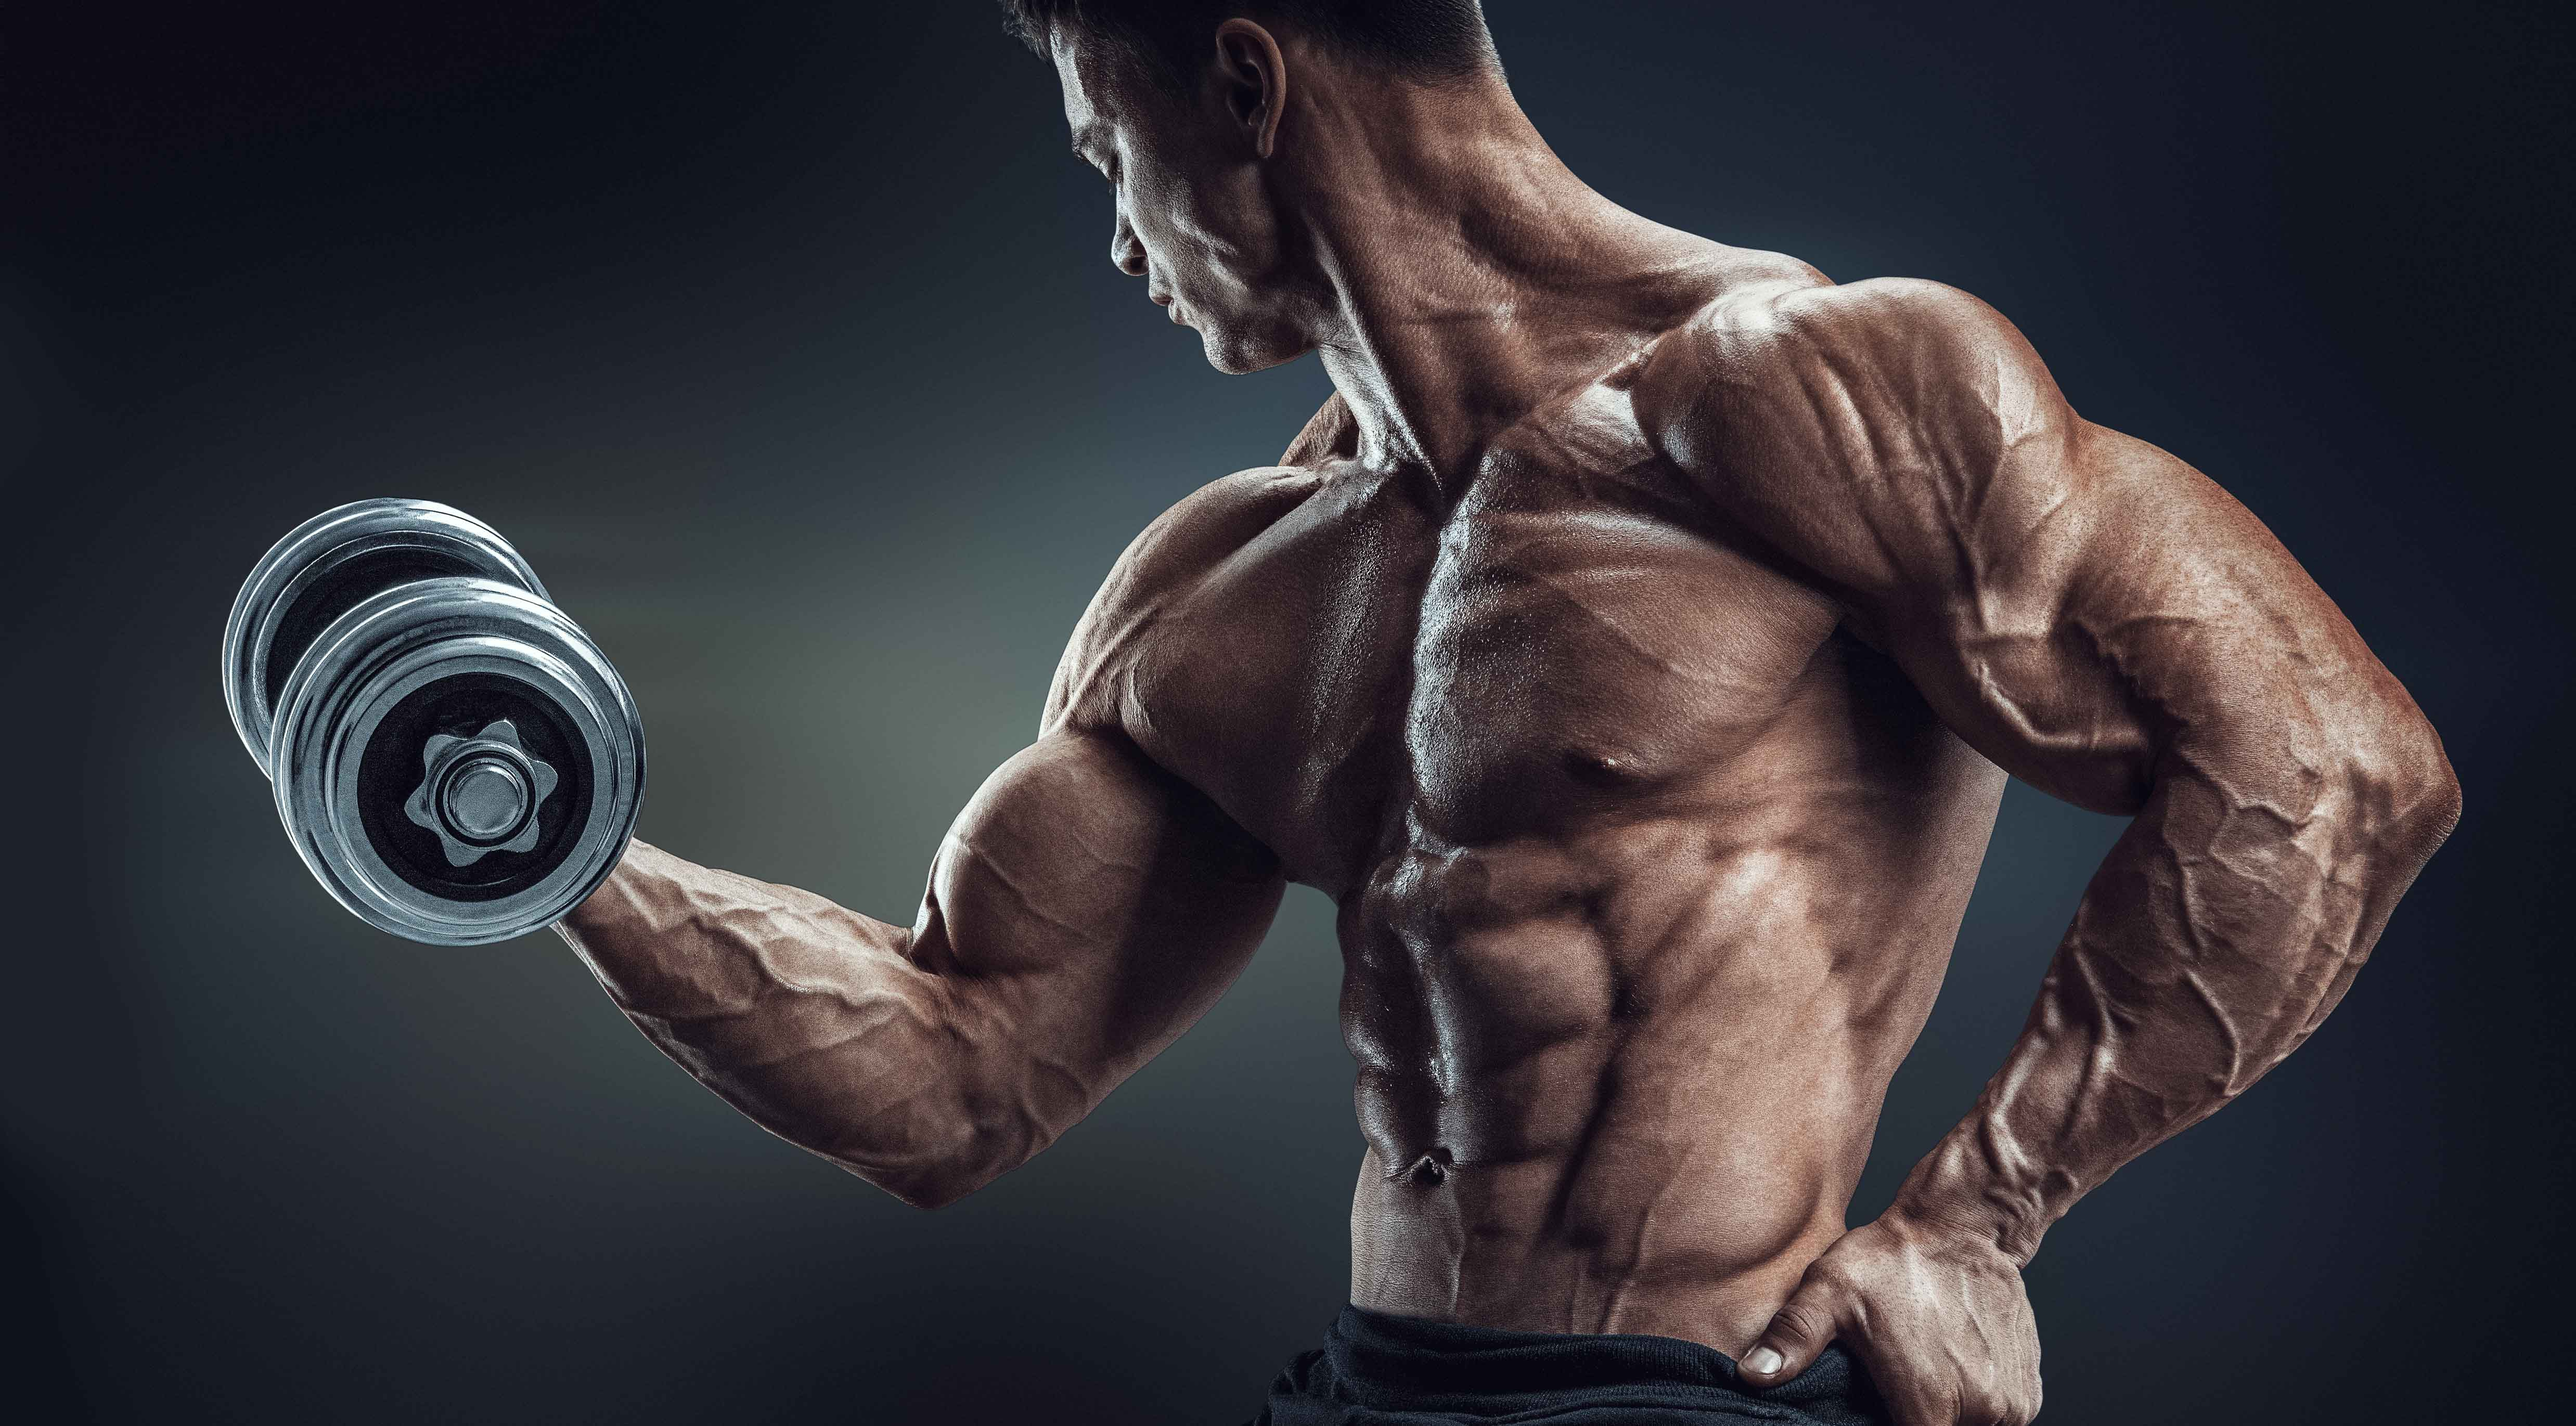
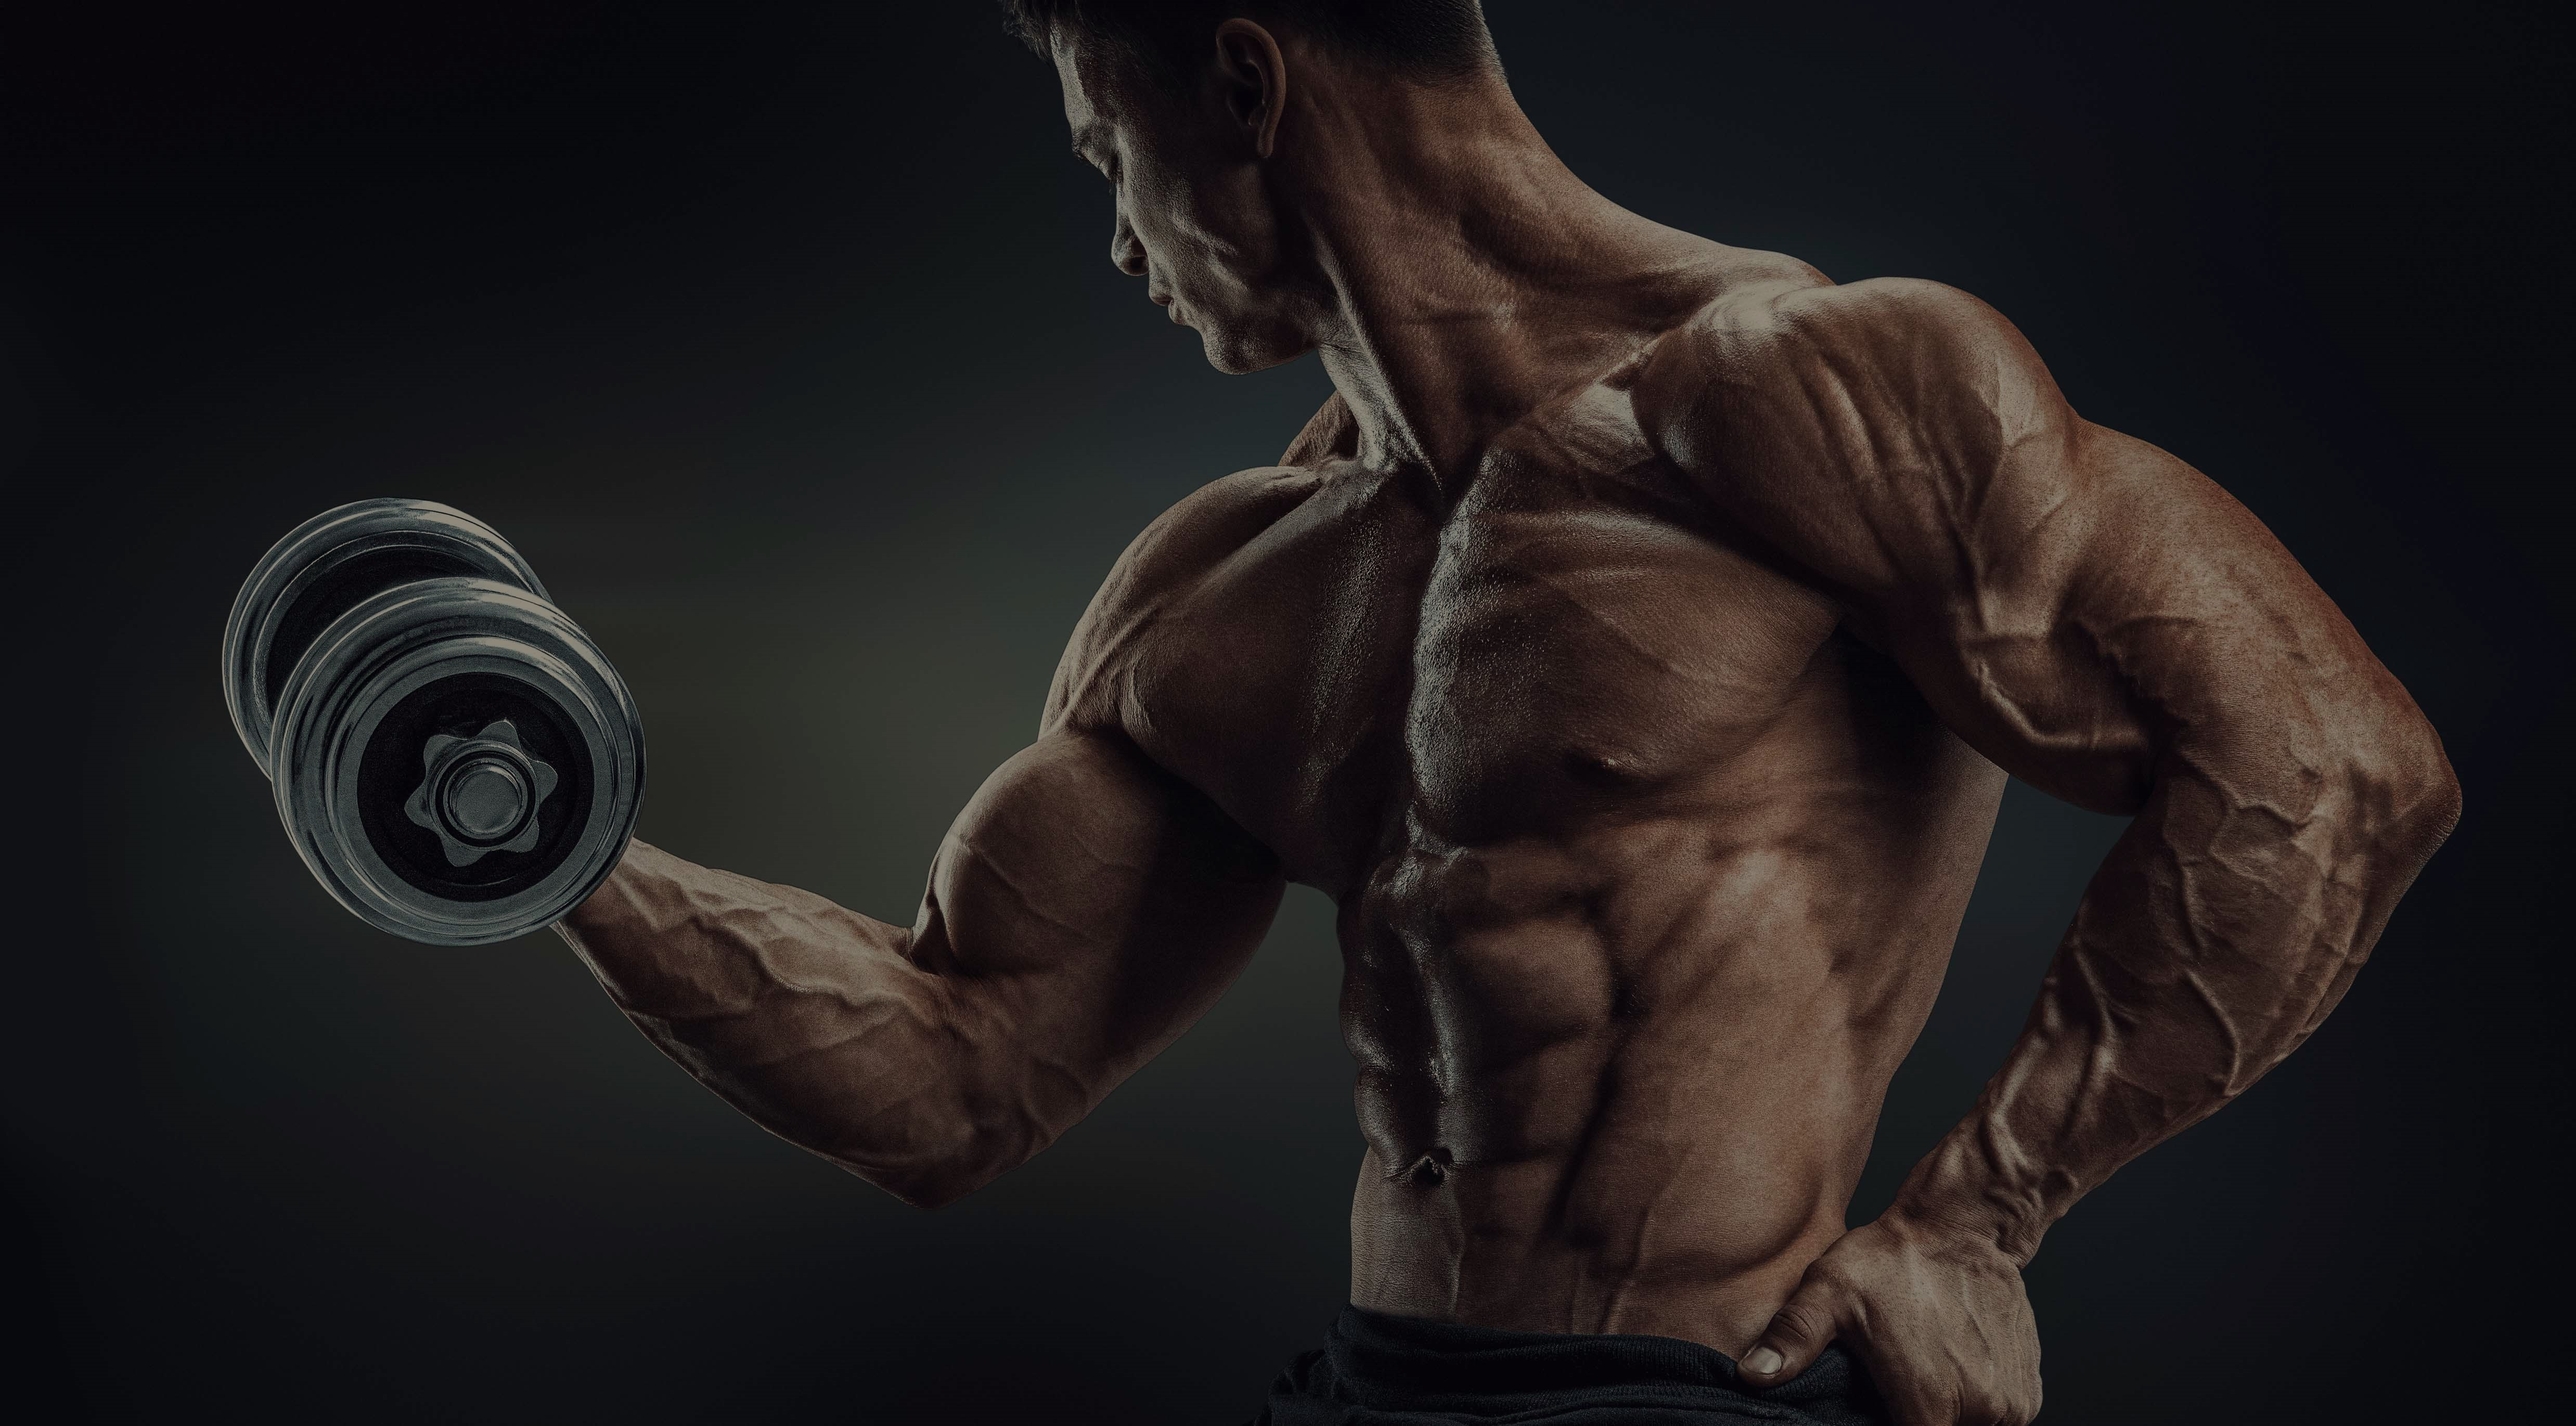
CSS

diff --git a/public/styles/search.css b/public/styles/search.css
@@ -1,34 +1,39 @@
-/* font-family: 'Open Sans Condensed', sans-serif;
+/*
+font-family: 'Open Sans Condensed', sans-serif;
 font-family: 'Cinzel', serif;
-font-family: 'Josefin Slab', serif; */
+font-family: 'Josefin Slab', serif;
+*/
 
 body {
-  background-color: white;
-}
-
-header {
-  height: 100px;
-  background-color: #333300;
-}
-
-#logo {
-  float: right;
-  margin-right: 10px;
-  margin-top: 10px;
-  width: 70px;
-  margin-bottom: -10px;
+  background-image: url("../images/femalebodybuilding1.jpg");
+  background-color: #000;
+  background-repeat: no-repeat;
+  background-attachment: fixed;
+  background-position: center;
 }
 
 h1 {
   display: block;
   float: left;
-  margin-top: 35px;
+  margin-top: 10px;
   margin-left: 10px;
   font-family: 'Cinzel', serif;
   font-size: 30px;
-  color: white;
+  color: #ebf2f9;
 }
 
+header ul li {
+  clear: both;
+  display: block;
+  float: right;
+  margin-bottom: 10px;
+}
+
+header nav ul li a {
+  text-decoration: none;
+  color: white;
+}
+/*
 #login {
   clear: both;
   display: block;
@@ -36,7 +41,7 @@ h1 {
   font-family: 'Josefin Slab', serif;
   margin-left: 20px;
 }
-
+*/
 
 .icons {
   display: block;
@@ -57,11 +62,61 @@ footer p {
 @media only screen and (min-width: 480px) {
 
   body {
-    background-image: url("../images/newbackground.png");
+    background-image: url("../images/bodybuilding1.jpg");
     background-color: #000;
     background-repeat: no-repeat;
     background-attachment: fixed;
     background-position: center;
     background-size: 100%;
+  }
+
+  h1 {
+    display: block;
+    text-align: left;
+    margin-top: 10px;
+    margin-right: 10px;
+    font-family: 'Cinzel', serif;
+    font-size: 50px;
+    color: white;
+  }
+
+  header ul li {
+    clear: both;
+    display: block;
+    float: right;
+    margin-bottom: 10px;
+  }
+
+  header nav ul li a {
+    text-decoration: none;
+    color: white;
+  }
+
+  main {
+    margin-top: 100px;
+  }
+
+/* Bottom of Page */
+  .icons {
+    clear:both;
+    display: block;
+    width: 30px;
+    right: 0;
+    bottom: 0;
+    left: 0;
+    padding: 1rem;
+    text-align: center;
+    color: white;
+  }
+
+  footer p {
+    clear:both;
+    position: absolute;
+    right: 0;
+    bottom: 0;
+    left: 0;
+    padding: 1rem;
+    text-align: center;
+    color: white;
   }
 }

diff --git a/public/styles/index.css b/public/styles/index.css
@@ -1,8 +1,7 @@
 /*
-font-family: 'Raleway', sans-serif;
-font-family: 'Great Vibes', cursive;
-font-family: 'Julius Sans One', sans-serif;
-font-family: 'Niconne', cursive;
+font-family: 'Open Sans Condensed', sans-serif;
+font-family: 'Cinzel', serif;
+font-family: 'Josefin Slab', serif;
 */
 
 body {
@@ -16,18 +15,22 @@ body {
 /* SwoleFellows Top of Screen */
 h1 {
   display: block;
-  margin-top: 10px;
-  font-family: 'Julius Sans One', sans-serif;
-  font-size: 30px;
-  color: white;
   text-align: center;
+  margin: 0 auto;
+  margin-top: 10px;
+  font-family: 'Cinzel', serif;
+  font-size: 30px;
+  color: black;
+  background-color: white;
+  width: 250px;
+  border-radius: 15px;
 }
 
 /* Form I.D. */
 h2 {
   text-align: center;
   color: white;
-  font-family: 'Raleway', sans-serif;
+  font-family: 'Cinzel', serif;
   margin-left: 28px;
   margin-bottom: 5px;
 }
@@ -148,5 +151,21 @@ h2 {
 }
 
 @media only screen and (min-width: 480px) {
+  body {
+    background-image: url("../images/background1.jpg");
+    background-color: #000;
+    background-repeat: no-repeat;
+    background-attachment: fixed;
+    background-position: center;
+  }
 
+  h1 {
+    margin-top: 200px;
+    font-family: 'Cinzel', serif;
+    font-size: 50px;
+    color: white;
+    width: 100%;
+    background: transparent;
+    text-align: center;
+  }
 }

diff --git a/public/index.html b/public/index.html
@@ -4,12 +4,9 @@
     <meta charset="utf-8">
     <title>SwoleFellows Login</title>
     <meta name="viewport" content="width=device-width, initial-scale=1">
-
-    <link rel="stylesheet" href="styles/reset.css">
-    <link rel="stylesheet" href="styles/base.css">
-    <link rel="stylesheet" href="styles/layout.css">
-    <link rel="stylesheet" href="styles/modules.css">
-    <link href="https://fonts.googleapis.com/css?family=Great+Vibes|Julius+Sans+One|Niconne|Raleway" rel="stylesheet">
+    <link rel="stylesheet" href="./styles/reset.css">
+    <link rel="stylesheet" href="./styles/index.css">
+    <link href="https://fonts.googleapis.com/css?family=Cinzel|Josefin+Slab|Open+Sans+Condensed:300" rel="stylesheet">
 
   </head>
   <body>

diff --git a/public/scripts/routine.js b/public/scripts/routine.js
@@ -36,9 +36,9 @@ $('#nav-routine').hide();
                 })
             }
           })
-          return exercises
+          .then(return exercises)
           })
-      .done((arr) => {
+      .then((arr) => {
         $('#saved_workouts').empty();
         Exercise.loadAll(arr);
         Exercise.all.map(obj => obj.toHtml());

diff --git a/public/search.html b/public/search.html
@@ -47,7 +47,6 @@
 
 
     <header>
-      <img id="logo" src="./images/swole.png" alt="logo">
       <h1>SwoleFellows</h1>
       <nav>
         <ul>
